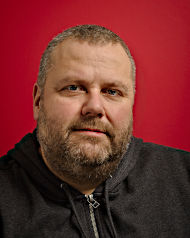
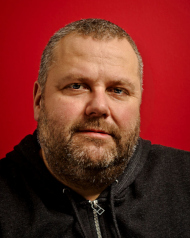
ajout Brigitte et corrections portraits

diff --git a/_posts/2020-01-20-bilan.md b/_posts/2020-01-20-bilan.md
@@ -29,7 +29,7 @@ Ce montant important n'aura pas suffi à calmer la soif de tape à l’oeil de c
 Pourtant, Steeve Fertig et l'opposition avaient proposé un projet beaucoup moins coûteux : mutualiser Mairie et Maison des Services.  
 Car l'argent ne fait pas tout.  La gestion du patrimoine est aussi importante. N’oublions pas que l'urbanisme et l'aménagement du territoire d'une commune ne doit pas se limiter à la construction. Mais souvent, pour cette majorité, la gestion du patrimoine a consisté à se débarrasser des biens ou à ne rien en faire ! D'un côté il y a eu la vente de l’ancienne perception et du logement de la maison de l'eau. De l'autre, après la construction de la nouvelle école de musique qui était indispensable, rien n'a été fait de l'ancienne salle de répétition (ancienne caserne de pompier). Et ce n'est qu'un exemple parmi d'autres.  
 
-C’est ainsi que la priorité « centre ville » a occulté les différents travaux de voirie dans certains quartiers comme le lotissement Holzmiss. Ayons à l'esprit qu'un mandat dispose d'une enveloppe d'environ 6,5 à 7 millions d'euros maximum pour investir dans la ville. Selon nous, cet argent doit être réparti équitablement entre différents projets sur l’ensemble de la commune.
+C’est ainsi que la priorité *centre ville* a occulté les différents travaux de voirie dans certains quartiers comme le lotissement Holzmiss. Ayons à l'esprit qu'un mandat dispose d'une enveloppe d'environ 6,5 à 7 millions d'euros maximum pour investir dans la ville. Selon nous, cet argent doit être réparti équitablement entre différents projets sur l’ensemble de la commune.
 
 
 ### Gros plan sur l'incohérence en matière de développement durable… ###
